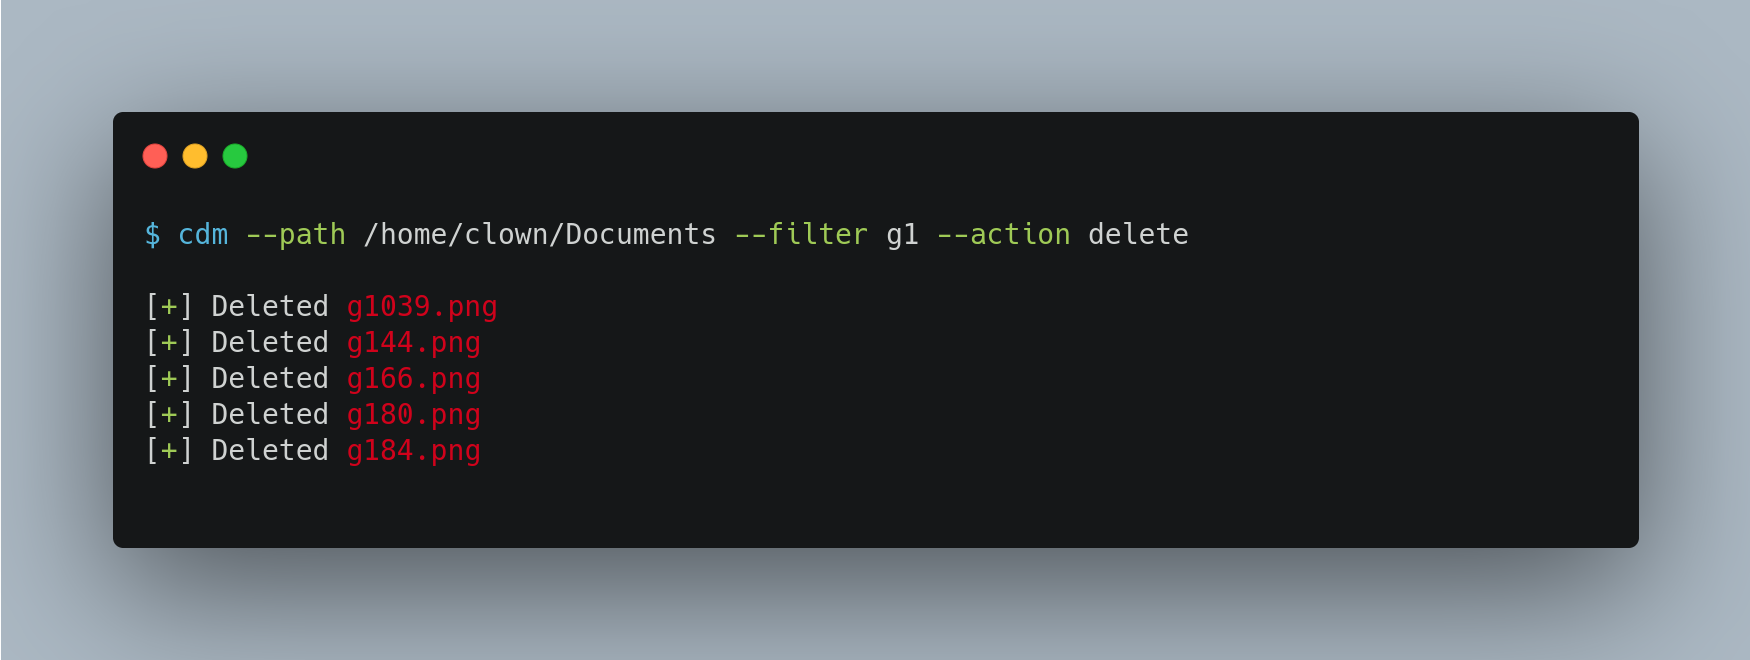
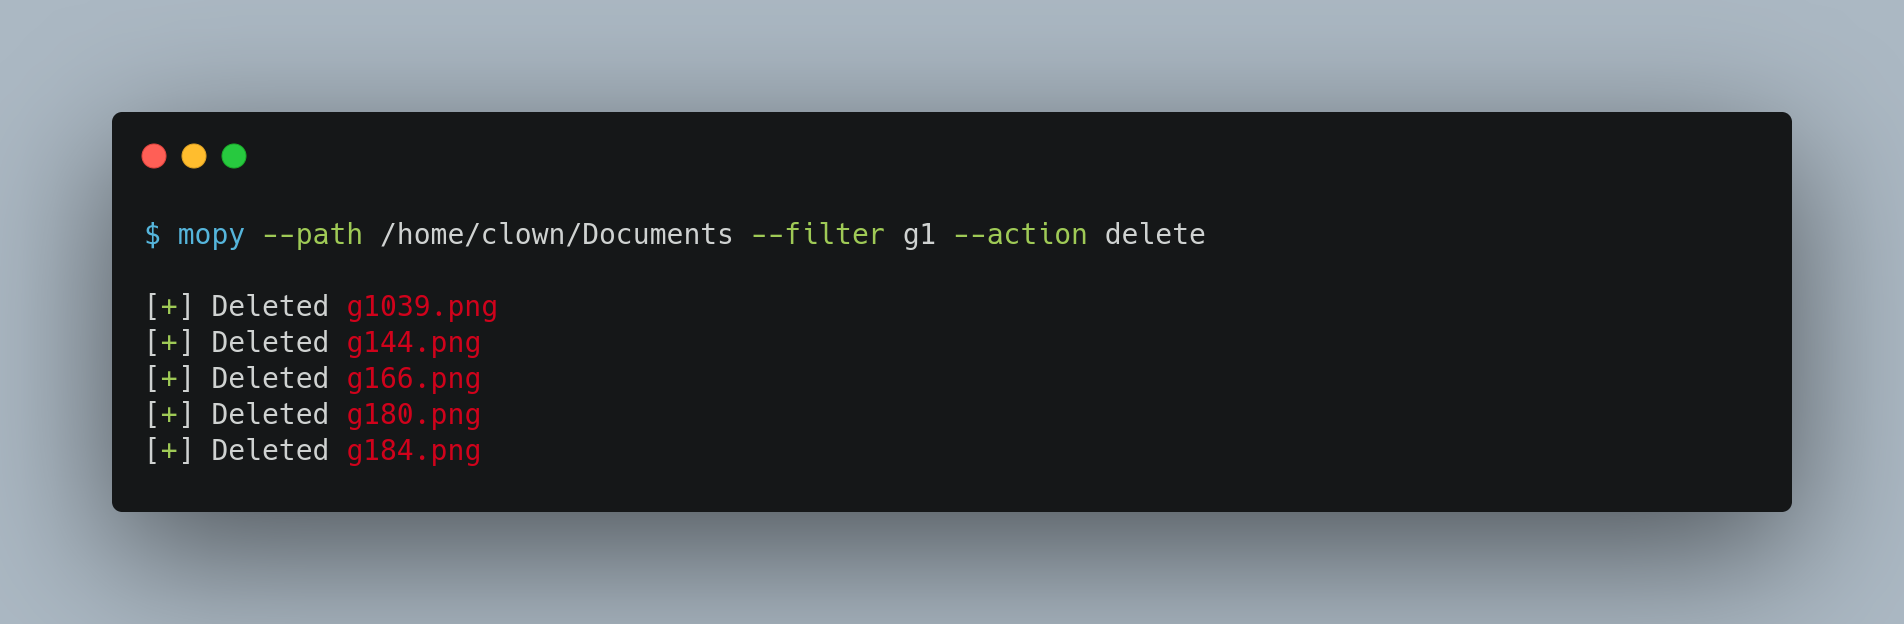
Changed package name to mopy

diff --git a/README.md b/README.md
@@ -1,4 +1,4 @@
-## cdm
+## mopy
 [ copy, delete, move ] multiple files at once from the terminal
 
 
